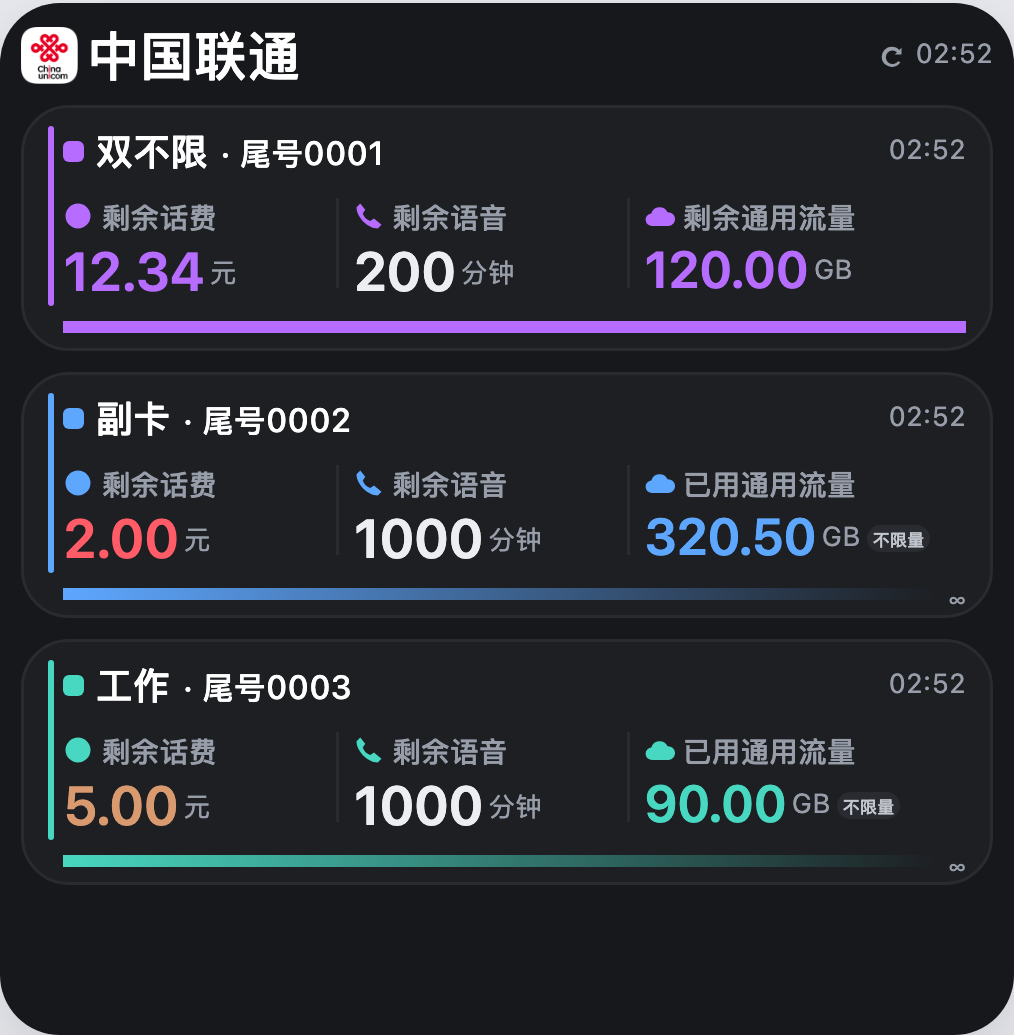
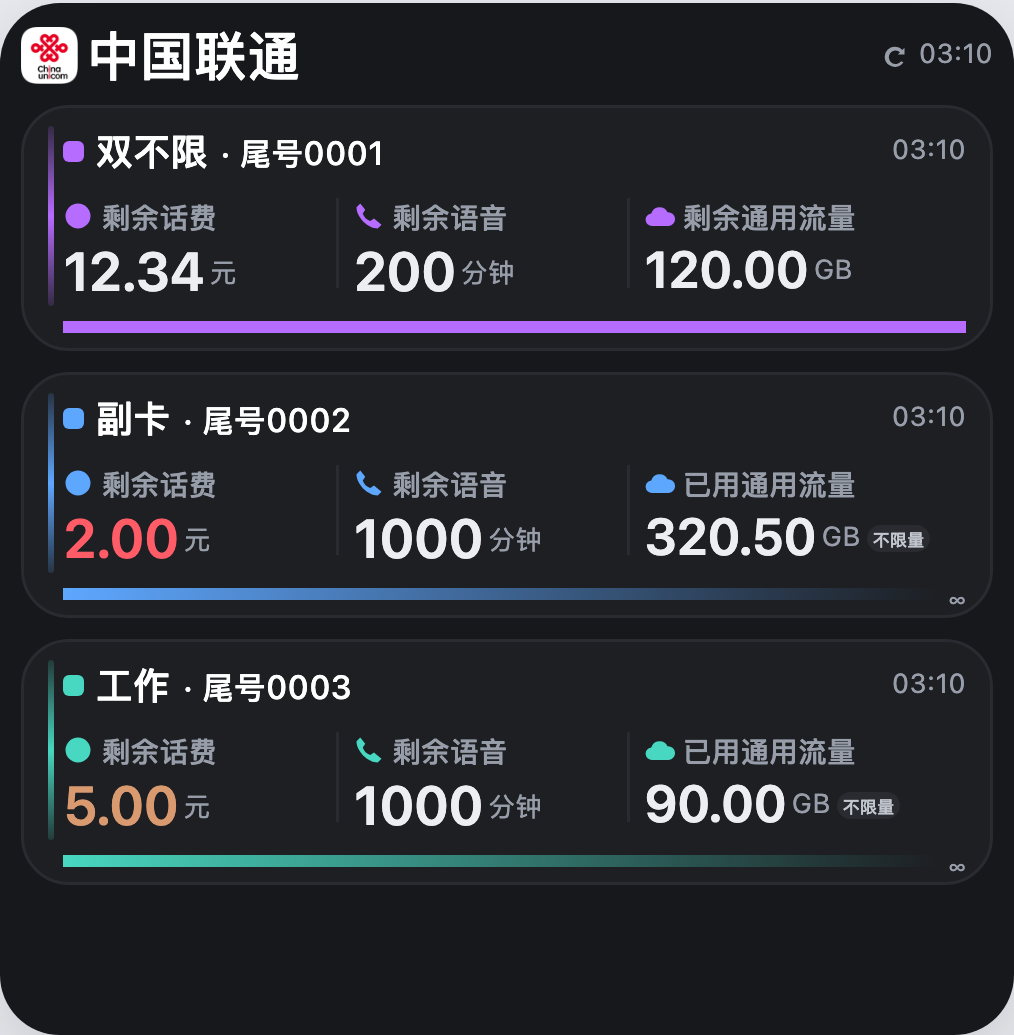
fix(widget): soften accent rails and unify summary numeric ink

diff --git a/preview/compact.html b/preview/compact.html
@@ -1,6 +1,6 @@
 <!doctype html><meta charset="utf-8"><title>三卡汇总 三列卡 DSL 设计预览</title>
 <style>body{font:14px system-ui;background:#e7e9ee;padding:24px}#preview{margin-top:20px;box-shadow:0 8px 24px #0002;border-radius:20px;overflow:hidden;box-sizing:border-box}label{margin-right:12px}pre{max-height:220px;overflow:auto}p{max-width:900px}</style>
-<h2>三卡合一 · 标题栏 + 三列数据卡 + 流量条 DSL 设计预览</h2><p class="note"><b>黑灰科技风 · 设计预览，非实机截图。</b>合成测试数据。直接执行正式 JS；嵌入离线联通品牌图；话费／语音／流量横向三列，小图标＋标签在上、大数字在下、列间细分隔，底部保留原流量条；大号82pt定高、89pt卡节距、名称到指标7pt、指标到条5pt，底部系统留白不塞入卡内。模块 #17181B、卡片 #1D1F23、边框 #292B30；紫/蓝/青仅用于标记、数值和4pt流量条。低余额数字珊瑚红/柔和暖色，不染整块背景。无发光、无伪磨砂；固定尺寸模拟 Egern flex，浏览器与实机字体不同。</p>
+<h2>三卡合一 · 标题栏 + 三列数据卡 + 流量条 DSL 设计预览</h2><p class="note"><b>黑灰科技风 · 设计预览，非实机截图。</b>合成测试数据。直接执行正式 JS；嵌入离线联通品牌图；话费／语音／流量横向三列，小图标＋标签在上、大数字在下、列间细分隔，底部保留原流量条；大号82pt定高、89pt卡节距、名称到指标7pt、指标到条5pt，底部系统留白不塞入卡内。模块 #17181B、卡片 #1D1F23、边框 #292B30；正常数字统一近白、单位统一灰色；紫/蓝/青仅用于图标、标记、柔和竖轨和4pt流量条。低余额数字珊瑚红/柔和暖色，不染整块背景。无发光、无伪磨砂；固定尺寸模拟 Egern flex，浏览器与实机字体不同。</p>
 <label>尺寸 <select id="family"><option>systemMedium</option><option>systemSmall</option><option>systemLarge</option><option>systemExtraLarge</option><option>accessoryRectangular</option><option>accessoryCircular</option><option>accessoryInline</option></select></label>
 <label><input id="dark" type="checkbox">深色</label><label><input id="titlebar" type="checkbox" checked>顶部标题栏</label><label><input id="suffix" type="checkbox">尾四位</label><label><input id="fail" type="checkbox">卡2失效</label><label>卡1别名 <input id="alias" value="双不限"></label><label>卡2参考总量 <input id="total" placeholder="可选，如 500GB"></label><label>卡片顺序 <input id="order" placeholder="1,2,3"></label>
 <div id="preview"></div><details><summary>实际 JS 返回的 DSL</summary><pre id="tree"></pre></details>
@@ -17,7 +17,7 @@ function render(n){const e=document.createElement('div');e.dataset.type=n.type;c
   if(String(n.src).startsWith('sf-symbol:')){const g=document.createElement('div');g.style.width=sz+'px';g.style.height=sz+'px';g.style.display='flex';g.style.alignItems='center';g.style.justifyContent='center';g.title=n.src;const paths={'sf-symbol:yensign.circle':'M12 2a10 10 0 1 0 0 20 10 10 0 0 0 0-20zm-4 5 4 5 4-5h-2l-2 3-2-3zm3 6H7v2h4v2H7v2h4v2h2v-2h4v-2h-4v-2h4v-2h-4z','sf-symbol:phone.fill':'M5 2 2 5c0 8 9 17 17 17l3-3-6-5-3 2c-3-1-5-3-6-6l2-3z','sf-symbol:cloud.fill':'M6 20a5 5 0 0 1-1-10 7 7 0 0 1 13-1 5 5 0 0 1 1 11z','sf-symbol:arrow.clockwise':'M20 5v6h-6l2-2a6 6 0 1 0 1 8l2 1a9 9 0 1 1-1-11z'};g.innerHTML='<svg viewBox="0 0 24 24" width="'+sz+'" height="'+sz+'" fill="'+(n.color?color(n.color):($('dark').checked?'#EDEFF2':'#1B1C1E'))+'"><path d="'+(paths[n.src]||'M7 2h7l6 6v14H5V2z')+'"/></svg>';e.append(g);e.style.width=sz+'px';return e;}
   const img=document.createElement('img');img.src=localSrc(n.src);img.style.width=sz+'px';img.style.height=(n.height||15)+'px';img.style.objectFit=n.resizeMode||'contain';img.style.display='block';if(n.borderRadius)img.style.borderRadius=n.borderRadius+'px';e.append(img);e.style.width=sz+'px';return e;}
  if(n.type==='text'){e.textContent=n.text;s.fontSize=n.font.size+'px';s.lineHeight='1.2';s.fontWeight={regular:400,medium:500,semibold:600,bold:700}[n.font.weight];s.color=color(n.textColor);s.whiteSpace='nowrap';s.overflow='hidden';s.textOverflow='ellipsis';}
- else{const col=n.type==='widget'||n.direction!=='row';s.display='flex';s.flexDirection=col?'column':'row';s.alignItems=n.alignItems||'stretch';if(n.gap)s.gap=n.gap+'px';if(n.padding!==undefined)s.padding=Array.isArray(n.padding)?n.padding.map(v=>v+'px').join(' '):n.padding+'px';if(n.backgroundGradient){const g=n.backgroundGradient;s.background='linear-gradient(90deg,'+color(g.colors[0])+','+color(g.colors[1])+')';}else if(n.backgroundColor)s.background=color(n.backgroundColor);if(n.borderWidth){s.border=n.borderWidth+'px solid '+(n.borderColor?color(n.borderColor):'transparent');}if(n.borderRadius)s.borderRadius=n.borderRadius+'px';if(n.width)s.width=n.width+'px';if(n.height){s.height=n.height+'px';s.flexShrink='0';}if(n.type==='spacer')s.flex=col?'1 1 0px':'1 1 0';for(const c of n.children||[]){const el=render(c);if(col&&hasFlex(c)&&!c.height){el.style.flex='1 1 0px';el.style.minHeight='0';}else if(c.flex){el.style.flex=String(c.flex)+' 1 0px';if(!col)el.style.alignSelf='stretch';}e.append(el);}}
+ else{const col=n.type==='widget'||n.direction!=='row';s.display='flex';s.flexDirection=col?'column':'row';s.alignItems=n.alignItems||'stretch';if(n.gap)s.gap=n.gap+'px';if(n.padding!==undefined)s.padding=Array.isArray(n.padding)?n.padding.map(v=>v+'px').join(' '):n.padding+'px';if(n.backgroundGradient){const g=n.backgroundGradient;s.background='linear-gradient('+((Math.atan2((g.endPoint?.x??1)-(g.startPoint?.x??0),-((g.endPoint?.y??1)-(g.startPoint?.y??0)))*180/Math.PI+360)%360)+'deg,'+g.colors.map((c,i)=>color(c)+(g.stops?' '+g.stops[i]*100+'%':'')).join(',')+')';}else if(n.backgroundColor)s.background=color(n.backgroundColor);if(n.borderWidth){s.border=n.borderWidth+'px solid '+(n.borderColor?color(n.borderColor):'transparent');}if(n.borderRadius)s.borderRadius=n.borderRadius+'px';if(n.width)s.width=n.width+'px';if(n.height){s.height=n.height+'px';s.flexShrink='0';}if(n.type==='spacer')s.flex=col?'1 1 0px':'1 1 0';for(const c of n.children||[]){const el=render(c);if(col&&hasFlex(c)&&!c.height){el.style.flex='1 1 0px';el.style.minHeight='0';}else if(c.flex){el.style.flex=String(c.flex)+' 1 0px';if(!col)el.style.alignSelf='stretch';}e.append(el);}}
  if(n.flex&&n.type==='widget')s.flex=String(n.flex)+' 1 auto';s.minWidth='0';return e;}
 async function update(){const rows=window.previewFixture?.rows||[{f:['剩余话费','12.34','元'],v:['剩余语音','200','分钟'],fl:['剩余通用流量','120.00','GB']},{f:['剩余话费','2.00','元'],v:['剩余语音','1000','分钟'],fl:['已用通用流量','320.50','GB']},{f:['剩余话费','5.00','元'],v:['剩余语音','1000','分钟'],fl:['已用通用流量','90.00','GB']}];const records=new Map(rows.map((r,i)=>['egern.unicom3.v1.slot.'+(i+1),{phone:'1300000000'+(i+1),cookie:'synthetic-not-a-real-cookie',capturedAt:1,updatedAt:window.previewFixture?.times?.[i]||Date.now()-120000,dataSchema:2,...($('fail').checked&&i===1?{invalid:true}:{}),data:[{title:r.f[0],value:r.f[1],unit:r.f[2]},{title:r.v[0],value:r.v[1],unit:r.v[2]},{title:r.fl[0],value:r.fl[1],unit:r.fl[2]}]}]));const t=await run({env:{VIEW:'all',CARD1_NAME:$('alias').value,CARD2_NAME:'副卡',CARD3_NAME:'工作',CARD2_TOTAL:$('total').value,CARD_ORDER:$('order').value,SHOW_BRAND:$('titlebar').checked?'true':'false',SHOW_PHONE_SUFFIX:String($('suffix').checked),...window.previewFixture?.env},widgetFamily:$('family').value,storage:{getJSON:k=>records.get(k),setJSON:(k,v)=>records.set(k,v)},http:{get:()=>{throw Error('preview must use fixture cache only')}}});const widths={systemMedium:360,systemSmall:170,systemLarge:360,systemExtraLarge:500,accessoryRectangular:170,accessoryCircular:90,accessoryInline:360};const f=FRAME[$('family').value]||FRAME.systemMedium;$('preview').style.width=f[0]+'px';$('preview').style.height=f[1]+'px';$('preview').style.overflow='hidden';const root=render(t);root.style.height='100%';$('preview').replaceChildren(root);$('tree').textContent=JSON.stringify(t,null,2);window.lastDSL=t;}
 for(const e of document.querySelectorAll('input,select'))e.addEventListener('input',update);await update();

diff --git a/UnicomThreeCards.js b/UnicomThreeCards.js
@@ -133,7 +133,7 @@ const SUMMARY_INK={light:'#202329',dark:'#ECEEF2'};
 const SUMMARY_MUTED={light:'#626975',dark:'#989EA9'};
 const SUMMARY_TRACK={light:'#D9DDE3',dark:'#303238'};
 function summaryFeeColor(d,threshold,slot) {
- if(!lowBalance(d,threshold)) return SUMMARY_COLORS[slot];
+ if(!lowBalance(d,threshold)) return SUMMARY_INK;
  return Number(d.value)<threshold/2?{light:'#B83A47',dark:'#FF5C68'}:{light:'#A75E32',dark:'#D99A70'};
 }
 const WARNING={background:{light:'#FDE9E7',dark:'#FF786426'},value:{light:'#B83A32',dark:'#FFB4AA'}};
@@ -210,7 +210,7 @@ function capsule(d,index,center=false,warning=false) {
  return {type:'stack',direction:'column',alignItems:'center',...(center?{}:{flex:1}),padding:[7,center?20:8,7,center?20:8],gap:3,backgroundColor:warning?WARNING.background:CAPSULE_COLORS[index],borderRadius:14,children:[text(d.title,10,{light:'#51515A',dark:'#D8D8DF'},'medium'),row([text(d.value,22,warning?WARNING.value:COLORS.value,'semibold'),text(d.unit,10,COLORS.muted)],3)]};
 }
 function chip(label,s) {return {type:'stack',direction:'row',alignItems:'center',padding:[1,6,1,6],borderRadius:6,backgroundColor:{light:'#E6E8EC',dark:'#292B30'},children:[text(label,s.tag,{light:'#626975',dark:'#C2C6CE'},'medium')]};}
-// Summary resources use neutral surfaces; hue is confined to status marks and key values.
+// Summary resources use neutral surfaces and digits; hue is confined to status marks and warnings.
 function miniCapsule(d,slot,s,valueColor=SUMMARY_INK) {
  return {type:'stack',direction:'row',alignItems:'center',flex:1,gap:3,padding:s.cpad,backgroundColor:slotTint(slot),borderRadius:10,children:[text(d.title,s.label,SUMMARY_MUTED,'medium'),text(d.value,s.value,valueColor,'semibold'),text(d.unit,s.unit,SUMMARY_MUTED)]};
 }
@@ -257,12 +257,12 @@ function compactCard(ctx,result,selection,family,metric) {
  // Reference rows are ~90pt apart at a normalized 402pt screenshot width. Fixed row heights
  // fence off recursive flex inflation; excess iOS frame height belongs below the whole panel.
  const cardHeight=family==='systemExtraLarge'?86:82;
- const block=children=>({type:'stack',direction:'row',alignItems:'start',gap:s.gap,padding:family==='systemMedium'?[0,7,0,7]:roomy?[6,8,6,8]:CARD_PAD,...(roomy?{height:cardHeight}:{flex:1}),backgroundColor:slotCardBg(slot),borderRadius:CARD_RADIUS,borderWidth:1,borderColor:slotCardBorder(slot),children:[{type:'stack',direction:'column',width:2,height:small?26:family==='systemMedium'?30:60,borderRadius:1,backgroundColor:SUMMARY_COLORS[slot],children:[]},{type:'stack',direction:'column',gap:family==='systemMedium'?1:roomy?0:s.gap,flex:1,children}]});
+ const block=children=>({type:'stack',direction:'row',alignItems:'start',gap:s.gap,padding:family==='systemMedium'?[0,7,0,7]:roomy?[6,8,6,8]:CARD_PAD,...(roomy?{height:cardHeight}:{flex:1}),backgroundColor:slotCardBg(slot),borderRadius:CARD_RADIUS,borderWidth:1,borderColor:slotCardBorder(slot),children:[{type:'stack',direction:'column',width:2,height:small?26:family==='systemMedium'?30:60,borderRadius:1,backgroundGradient:{type:'linear',colors:[{light:SUMMARY_COLORS[slot].light+'26',dark:SUMMARY_COLORS[slot].dark+'26'},SUMMARY_COLORS[slot],{light:SUMMARY_COLORS[slot].light+'26',dark:SUMMARY_COLORS[slot].dark+'26'}],stops:[0,0.5,1],startPoint:{x:0.5,y:0},endPoint:{x:0.5,y:1}},children:[]},{type:'stack',direction:'column',gap:family==='systemMedium'?1:roomy?0:s.gap,flex:1,children}]});
  if(!result.data) return lock?{type:'stack',direction:'column',gap:2,children:[idRow,text(result.status,9,COLORS.accent)]}:block([idRow,text(result.status,small?9:11,COLORS.accent)]);
  const [fee,voice,flow]=result.data;
  if(lock) return {type:'stack',direction:'column',gap:1,children:[row([dot,...compactIdentity(alias,'',family,s),text(flow.value,s.value,COLORS.value,'semibold'),text(flow.unit,s.unit,SUMMARY_MUTED)],3)]};
  const feeColor=summaryFeeColor(fee,balanceThreshold(ctx.env?.LOW_BALANCE_THRESHOLD),slot);
- const valueColor=SUMMARY_COLORS[slot];
+ const valueColor=SUMMARY_INK;
  const column=(d,color,badge=false,index=0)=>({type:'stack',direction:'column',flex:roomy&&index===2?1.25:1,gap:s.fgap,children:[...(badge&&family==='systemMedium'?[row([text(d.title,s.label,SUMMARY_MUTED,'medium'),chip('不限量',s)],2)]:[roomy?row([{type:'image',src:'sf-symbol:'+['yensign.circle','phone.fill','cloud.fill'][index],width:10,height:10,color:SUMMARY_COLORS[slot]},text(d.title,s.label,SUMMARY_MUTED,'medium')],3):text(d.title,s.label,SUMMARY_MUTED,'medium')]),row([text(d.value,roomy&&index===2?s.value-1:s.value,color,'semibold'),text(d.unit,s.unit,SUMMARY_MUTED),...(badge&&roomy?[{...chip('不限量',s),padding:[1,2,1,2]}]:[])],2)]});
  // Small widgets keep the three identities and exact flow values, without cramming nine metrics.
  const metrics=small?row([text(flow.title,s.title,SUMMARY_MUTED),spacer(),text(flow.value,s.value,valueColor,'semibold'),text(flow.unit,s.unit,SUMMARY_MUTED)],2):row([column(fee,feeColor),...(roomy?[{type:'stack',width:1,height:30,backgroundColor:slotCardBorder(slot),children:[]}]:[]),column(voice,SUMMARY_INK,false,1),...(roomy?[{type:'stack',width:1,height:30,backgroundColor:slotCardBorder(slot),children:[]}]:[]),column(flow,valueColor,metric.unlimited,2)],5);

diff --git a/preview/compact-preview.html b/preview/compact-preview.html
@@ -1,7 +1,7 @@
 <!doctype html><meta charset="utf-8"><title>三卡汇总 设计预览</title>
 <style>body{font:13px system-ui;background:#0e0f13;color:#eee;padding:26px;margin:0}.wrap{display:flex;gap:26px;flex-wrap:wrap}.box{width:338px}.cap{color:#9aa0ad;margin:0 0 8px}.cap b{color:#fff}.cap code{color:#c7ccd6}.holder{border-radius:20px;overflow:hidden}.note{color:#7b8090;margin-top:18px;max-width:1140px}code{color:#c7ccd6}</style>
 <h2 style="margin:0 0 6px">三卡合一 · 三列数据卡（设计预览）</h2>
-<p class="note"><b>黑灰科技风 · 设计预览，非实机截图。</b>合成测试数据。直接执行正式 JS；标题＋三张中性圆角卡；每卡话费／语音／流量横向三列，标签在上、数字在下，底部保留原流量条。模块 #17181B、卡片 #1D1F23、边框 #292B30；紫/蓝/青仅用于标记、数值和4pt流量条。低余额数字珊瑚红/柔和暖色，不染整块背景。无发光、无伪磨砂；固定尺寸模拟 Egern flex，浏览器与实机字体不同。</p>
+<p class="note"><b>黑灰科技风 · 设计预览，非实机截图。</b>合成测试数据。直接执行正式 JS；标题＋三张中性圆角卡；每卡话费／语音／流量横向三列，标签在上、数字在下，底部保留原流量条。模块 #17181B、卡片 #1D1F23、边框 #292B30；正常数字统一近白、单位统一灰色；紫/蓝/青仅用于图标、标记、柔和竖轨和4pt流量条。低余额数字珊瑚红/柔和暖色，不染整块背景。无发光、无伪磨砂；固定尺寸模拟 Egern flex，浏览器与实机字体不同。</p>
 <div class="wrap">
  <div class="box"><p class="cap"><b>① 标题栏 + 无限流量卡：什么都不用填</b><br>顶部瘦身标题栏（图标＋中国联通，<b>无 flex 所以不会被撑高</b>）；没有套餐总量 → 流量条向右渐变淡出、末端 ∞、标记「不限量」，绝不出现百分比</p><div class="holder" id="a"></div></div>
  <div class="box"><p class="cap"><b>② 给有配额的卡填一次参考总量</b><br>卡2 填 500GB → 按接口已用值／总量真实填充；未设置的卡保留原条语义</p><div class="holder" id="b"></div></div>
@@ -27,7 +27,7 @@ function render(n,vertical){
   e.style.display='flex';e.style.flexDirection=col?'column':'row';e.style.alignItems=n.alignItems||'stretch';
   if(n.gap)e.style.gap=n.gap+'px';
   if(n.padding!==undefined)e.style.padding=Array.isArray(n.padding)?n.padding.map(v=>v+'px').join(' '):n.padding+'px';
-  if(n.backgroundGradient){const g=n.backgroundGradient;e.style.background='linear-gradient(90deg,'+color(g.colors[0])+','+color(g.colors[1])+')';}else if(n.backgroundColor)e.style.background=color(n.backgroundColor);
+  if(n.backgroundGradient){const g=n.backgroundGradient;e.style.background='linear-gradient('+((Math.atan2((g.endPoint?.x??1)-(g.startPoint?.x??0),-((g.endPoint?.y??1)-(g.startPoint?.y??0)))*180/Math.PI+360)%360)+'deg,'+g.colors.map((c,i)=>color(c)+(g.stops?' '+g.stops[i]*100+'%':'')).join(',')+')';}else if(n.backgroundColor)e.style.background=color(n.backgroundColor);
   if(n.borderWidth)e.style.border=n.borderWidth+'px solid '+(n.borderColor?color(n.borderColor):'transparent');
   if(n.borderRadius)e.style.borderRadius=n.borderRadius+'px';
   if(n.width)e.style.width=n.width+'px';

diff --git a/tests/airport.test.js b/tests/airport.test.js
@@ -113,16 +113,16 @@ test('an invalid or missing total never fakes a ratio or a 0% style',async()=>{
   assert.ok(bar.children[0].flex>0);
  }
 });
-test('flow values use their slot accent without changing remaining/used labels',async()=>{
+test('flow values use neutral ink without changing remaining/used labels',async()=>{
  const m=await setup(remaining);
  const t=await run({...m.ctx,env:{VIEW:'all'}});
  const big=nodes(t).find(n=>n.type==='text'&&n.text==='158.17');
- assert.equal(big.textColor.dark,'#B66CFF');
+ assert.equal(big.textColor.dark,'#ECEEF2');
  assert.ok(texts(t).includes('剩余通用流量'));
  const m2=await setup(used);
  const t2=await run({...m2.ctx,env:{VIEW:'all'}});
  const big2=nodes(t2).find(n=>n.type==='text'&&n.text==='407.44');
- assert.equal(big2.textColor.dark,'#B66CFF');
+ assert.equal(big2.textColor.dark,'#ECEEF2');
  assert.ok(texts(t2).includes('已用通用流量'));
 });
 test('each card shows its flow value exactly once',async()=>{
@@ -131,13 +131,13 @@ test('each card shows its flow value exactly once',async()=>{
  assert.equal(texts(t).filter(x=>x==='407.44').length,3);
  for(const card of cards(t))assert.equal(texts(card).filter(x=>x==='407.44').length,1);
 });
-test('backgroundGradient is a documented linear DSL property, only used for the flow bar',async()=>{
+test('backgroundGradient uses documented linear stops for rails and flow bars',async()=>{
  const m=await setup(used);
  const t=await run({...m.ctx,env:{VIEW:'all',CARD1_TOTAL:'1000GB'}});
  for(const n of nodes(t))for(const attr of Object.keys(n))assert.ok(allowed[n.type].includes(attr),'unsupported '+n.type+'.'+attr);
  for(const n of nodes(t))if(n.backgroundGradient){
   assert.equal(n.backgroundGradient.type,'linear');
-  assert.equal(n.backgroundGradient.colors.length,2);
+  assert.equal(n.backgroundGradient.colors.length,n.width===2?3:2);
   assert.ok(n.backgroundGradient.startPoint&&n.backgroundGradient.endPoint);
  }
 });
@@ -149,7 +149,7 @@ test('low fee is still emphasised in the summary capsules and normal fee is not'
  const m2=mock();for(const p of phones)await capture(m2,p);
  m2.ctx.http.get=async u=>{m2.calls.push({u,o:{}});return {status:200,json:async()=>({code:'Y',feeResource:{feePersent:'89.30',newUnit:'元'},voiceResource:{voicePersent:'56',newUnit:'分钟'},flowResource:used})};};
  const t2=await run({...m2.ctx,env:{VIEW:'all'}});
- assert.equal(nodes(t2).find(n=>n.type==='text'&&n.text==='89.30').textColor.light,'#8843C2');
+ assert.equal(nodes(t2).find(n=>n.type==='text'&&n.text==='89.30').textColor.light,'#202329');
 });
 test('summary layout stays within documented DSL and leaks nothing on every home size',async()=>{
  for(const family of ['systemSmall','systemMedium','systemLarge','systemExtraLarge']){

diff --git a/tests/polish.test.js b/tests/polish.test.js
@@ -1,0 +1,29 @@
+import test from 'node:test';
+import assert from 'node:assert/strict';
+import run from '../UnicomThreeCards.js';
+import {mock,capture,phones,cards} from './helpers.js';
+const nodes=n=>[n,...(n.children||[]).flatMap(nodes)];
+const ink={light:'#202329',dark:'#ECEEF2'},muted={light:'#626975',dark:'#989EA9'};
+for(const family of ['systemMedium','systemLarge','systemExtraLarge','systemSmall']) test('consistent digits/units and soft unchanged rails in '+family,async()=>{
+ const m=mock();for(const p of phones)await capture(m,p);
+ const t=await run({...m.ctx,widgetFamily:family,env:{VIEW:'all',LOW_BALANCE_THRESHOLD:'0'}});
+ cards(t).forEach((c,i)=>{
+  const rail=c.children[0],g=rail.backgroundGradient;
+  assert.equal(rail.width,2);assert.equal(rail.height,family==='systemSmall'?26:family==='systemMedium'?30:60);assert.equal(rail.borderRadius,rail.width/2);
+  assert.equal(g.type,'linear');assert.deepEqual(g.startPoint,{x:0.5,y:0});assert.deepEqual(g.endPoint,{x:0.5,y:1});assert.deepEqual(g.stops,[0,0.5,1]);
+  assert.equal(g.colors[1].dark,['#B66CFF','#5EA7FF','#48D7C0'][i]);
+  for(const mode of ['light','dark']){assert.equal(g.colors[0][mode],g.colors[1][mode]+'26');assert.equal(g.colors[2][mode],g.colors[0][mode]);}
+  const data=m.ctx.storage.getJSON('egern.unicom3.v1.slot.'+(i+1)).data;
+  for(const d of family==='systemSmall'?[data[2]]:data){assert.deepEqual(nodes(c).find(n=>n.text===d.value).textColor,ink);assert.ok(nodes(c).filter(n=>n.text===d.unit).every(n=>JSON.stringify(n.textColor)===JSON.stringify(muted)));}
+ });
+ for(const n of nodes(t))for(const key of Object.keys(n))assert.ok(!/shadow|blur/i.test(key));
+});
+test('fee warning thresholds retain coral and warm semantics; units never warn',async()=>{
+ for(const [fee,want] of [['-1','#FF5C68'],['4.99','#FF5C68'],['5','#D99A70'],['9.99','#D99A70'],['10','#ECEEF2']]){
+  const m=mock();for(const p of phones)await capture(m,p);
+  await run({...m.ctx,env:{VIEW:'all'}});
+  for(let i=1;i<=3;i++){const key='egern.unicom3.v1.slot.'+i,r=m.ctx.storage.getJSON(key);r.data[0].value=fee;m.ctx.storage.setJSON(key,r);}
+  const t=await run({...m.ctx,widgetFamily:'systemLarge',env:{VIEW:'all',LOW_BALANCE_THRESHOLD:'10'}});
+  for(const c of cards(t)){assert.equal(c.children[1].children[2].children[0].children[1].children[0].textColor.dark,want);assert.deepEqual(c.children[1].children[2].children[0].children[1].children[1].textColor,muted);}
+ }
+});

diff --git a/tests/dark-neutral.test.js b/tests/dark-neutral.test.js
@@ -18,7 +18,7 @@ test('neutral summary surfaces, severity-only fee colors and 4pt theme bars pres
   assert.equal(c.children.length,2);assert.equal(c.children[0].width,2);
   assert.equal(c.children[1].children[2].children.length,5);
   assert.ok(c.children[1].children[2].children.filter(n=>n.direction==='column').every(n=>!n.backgroundColor));
-  const all=nodes(c);assert.equal(all.find(n=>n.text===fee[i]).textColor.dark,['#B66CFF','#FF5C68','#D99A70'][i]);
+  const all=nodes(c);assert.equal(all.find(n=>n.text===fee[i]).textColor.dark,['#ECEEF2','#FF5C68','#D99A70'][i]);
   assert.equal(all.filter(n=>n.text===flow[i]).length,1);
   const bar=c.children[1].children.at(-1).children[0];assert.equal(i?bar.children[0].height:bar.height,4);
  });

diff --git a/tests/compact.test.js b/tests/compact.test.js
@@ -68,7 +68,7 @@ test('medium summary is a three-column metric row inside one neutral rounded car
   assert.equal(card.backgroundColor.dark,'#1D1F23');
   assert.equal(card.borderColor.light,'#DDE1E7');
   const [rail,content]=card.children;
-  assert.equal(rail.width,2);assert.equal(rail.backgroundColor.dark,['#B66CFF','#5EA7FF','#48D7C0'][i]);
+  assert.equal(rail.width,2);assert.equal(rail.backgroundGradient.colors[1].dark,['#B66CFF','#5EA7FF','#48D7C0'][i]);
   const [idRow,metrics,space,bottom]=content.children;
   assert.equal(idRow.children[0].type,'stack');assert.ok(idRow.children[0].width>0);
   assert.equal(idRow.children.at(-1).type,'text');assert.match(idRow.children.at(-1).text,/^(\d{2}:\d{2}|--:--)$/);

diff --git a/tests/three-column.test.js b/tests/three-column.test.js
@@ -18,7 +18,7 @@ for(const family of ['systemMedium','systemLarge','systemExtraLarge']) test('thr
  cards(t).forEach((card,i)=>{
   const [rail,content]=card.children;
   assert.equal(card.direction,'row');assert.equal(rail.width,2);assert.equal(rail.children.length,0);
-  assert.equal(rail.backgroundColor.dark,['#B66CFF','#5EA7FF','#48D7C0'][i]);
+  assert.equal(rail.backgroundGradient.colors[1].dark,['#B66CFF','#5EA7FF','#48D7C0'][i]);
   const roomy=family!=='systemMedium';
   const header=content.children[0],metrics=content.children[roomy?2:1],bottom=content.children.at(-1);
   assert.equal(hasFlex(header),false,'identity must not absorb remaining card height');

diff --git a/INSTALL.md b/INSTALL.md
@@ -14,6 +14,8 @@ https://raw.githubusercontent.com/liuweiqiang0523/egern-unicom-threecards/main/U
 
 ## 三卡合一紧凑版（新入口）
 
+**本次窄幅精修**：保留已认可的三列结构、卡高、字体、品牌图、徽标和原成功时间。正常话费／语音／流量数字统一使用近白 `#ECEEF2`（浅色 `#202329`），单位统一灰色 `#989EA9`（浅色 `#626975`）；低话费仍按原门槛显示珊瑚红／柔和暖色。左轨保持原2pt宽和原高度，圆头＋上下低透明度、中间实色的纵向三段渐变，不加阴影或发光。数据、缓存、抓取、流量条与单卡路径均不变。
+
 直接模块 URL：
 https://raw.githubusercontent.com/liuweiqiang0523/egern-unicom-threecards/main/UnicomThreeCardsCompact.yaml
 
